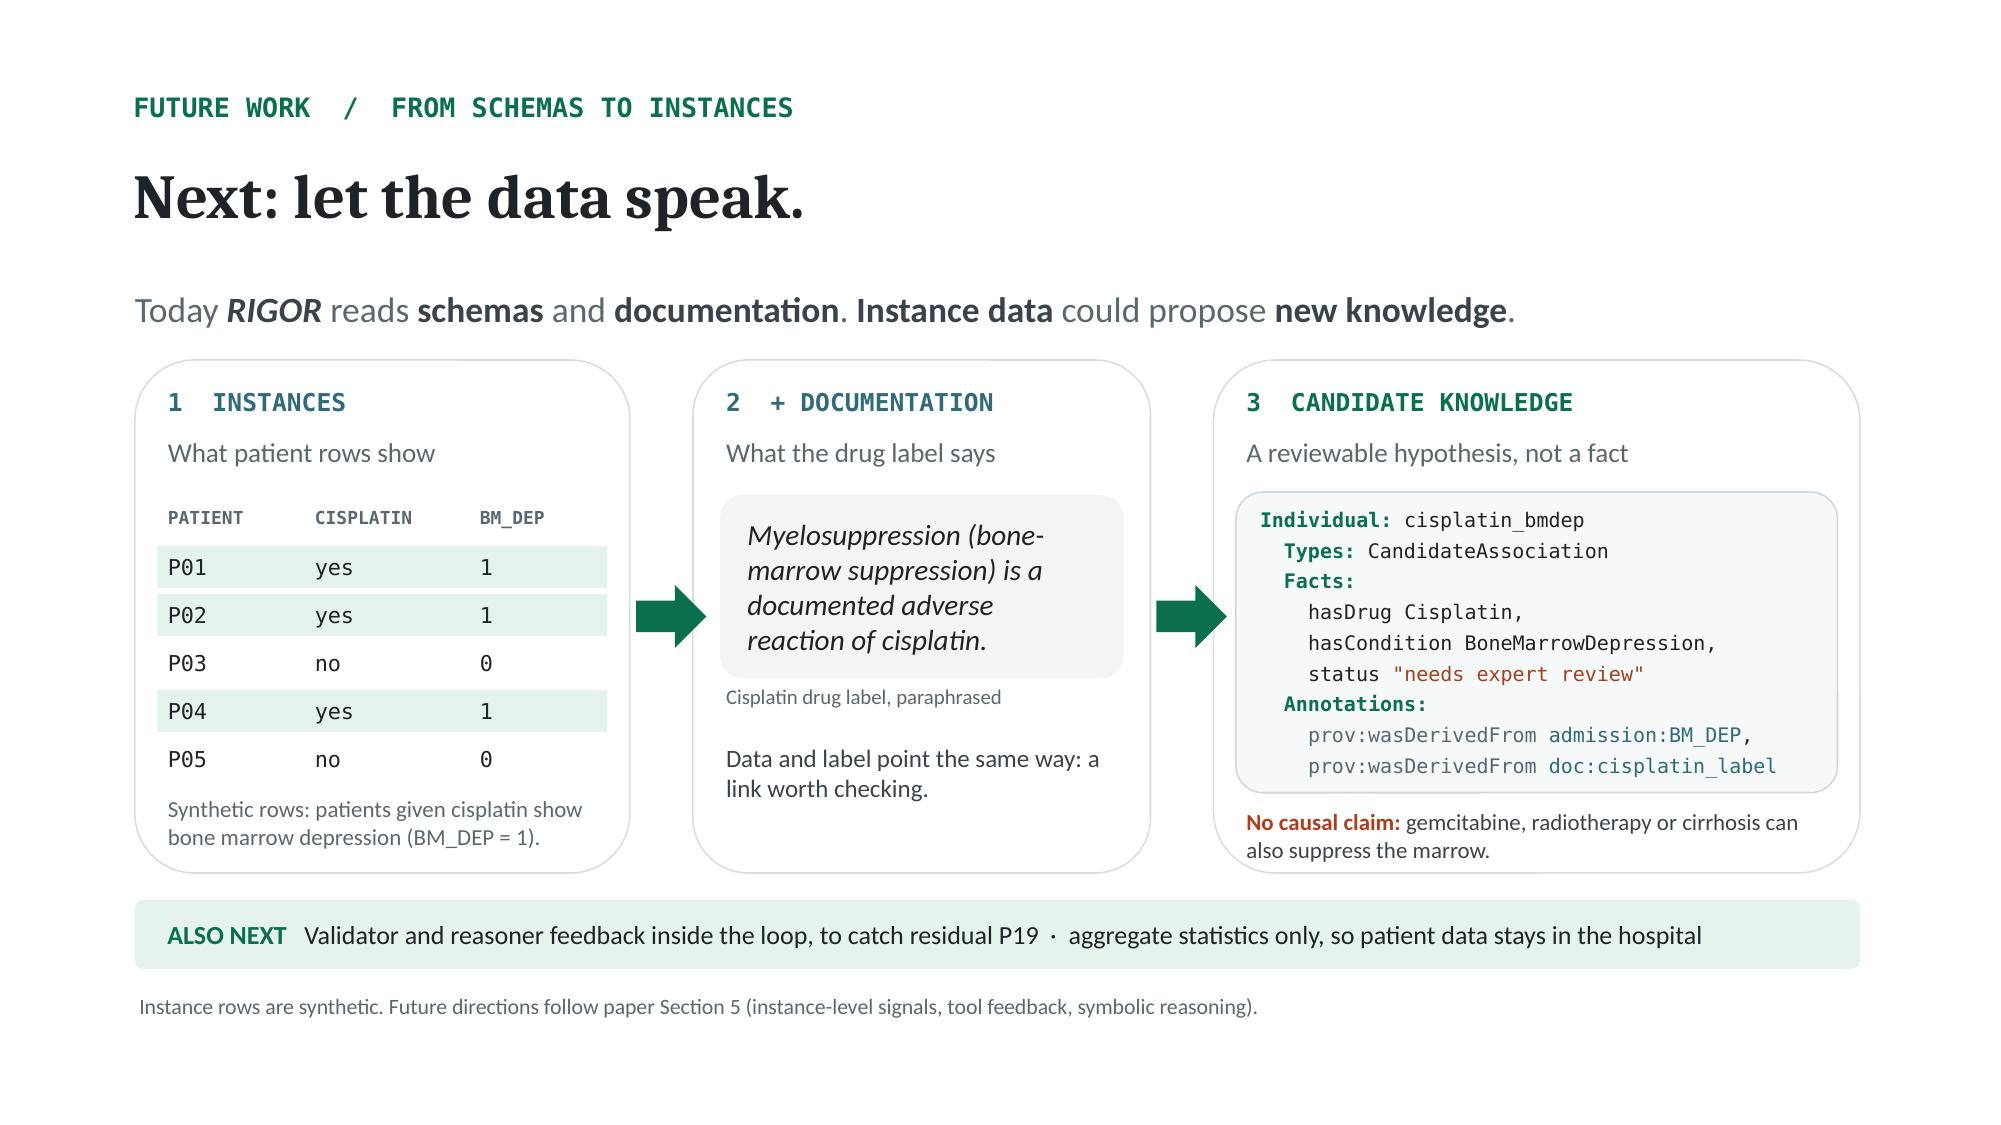
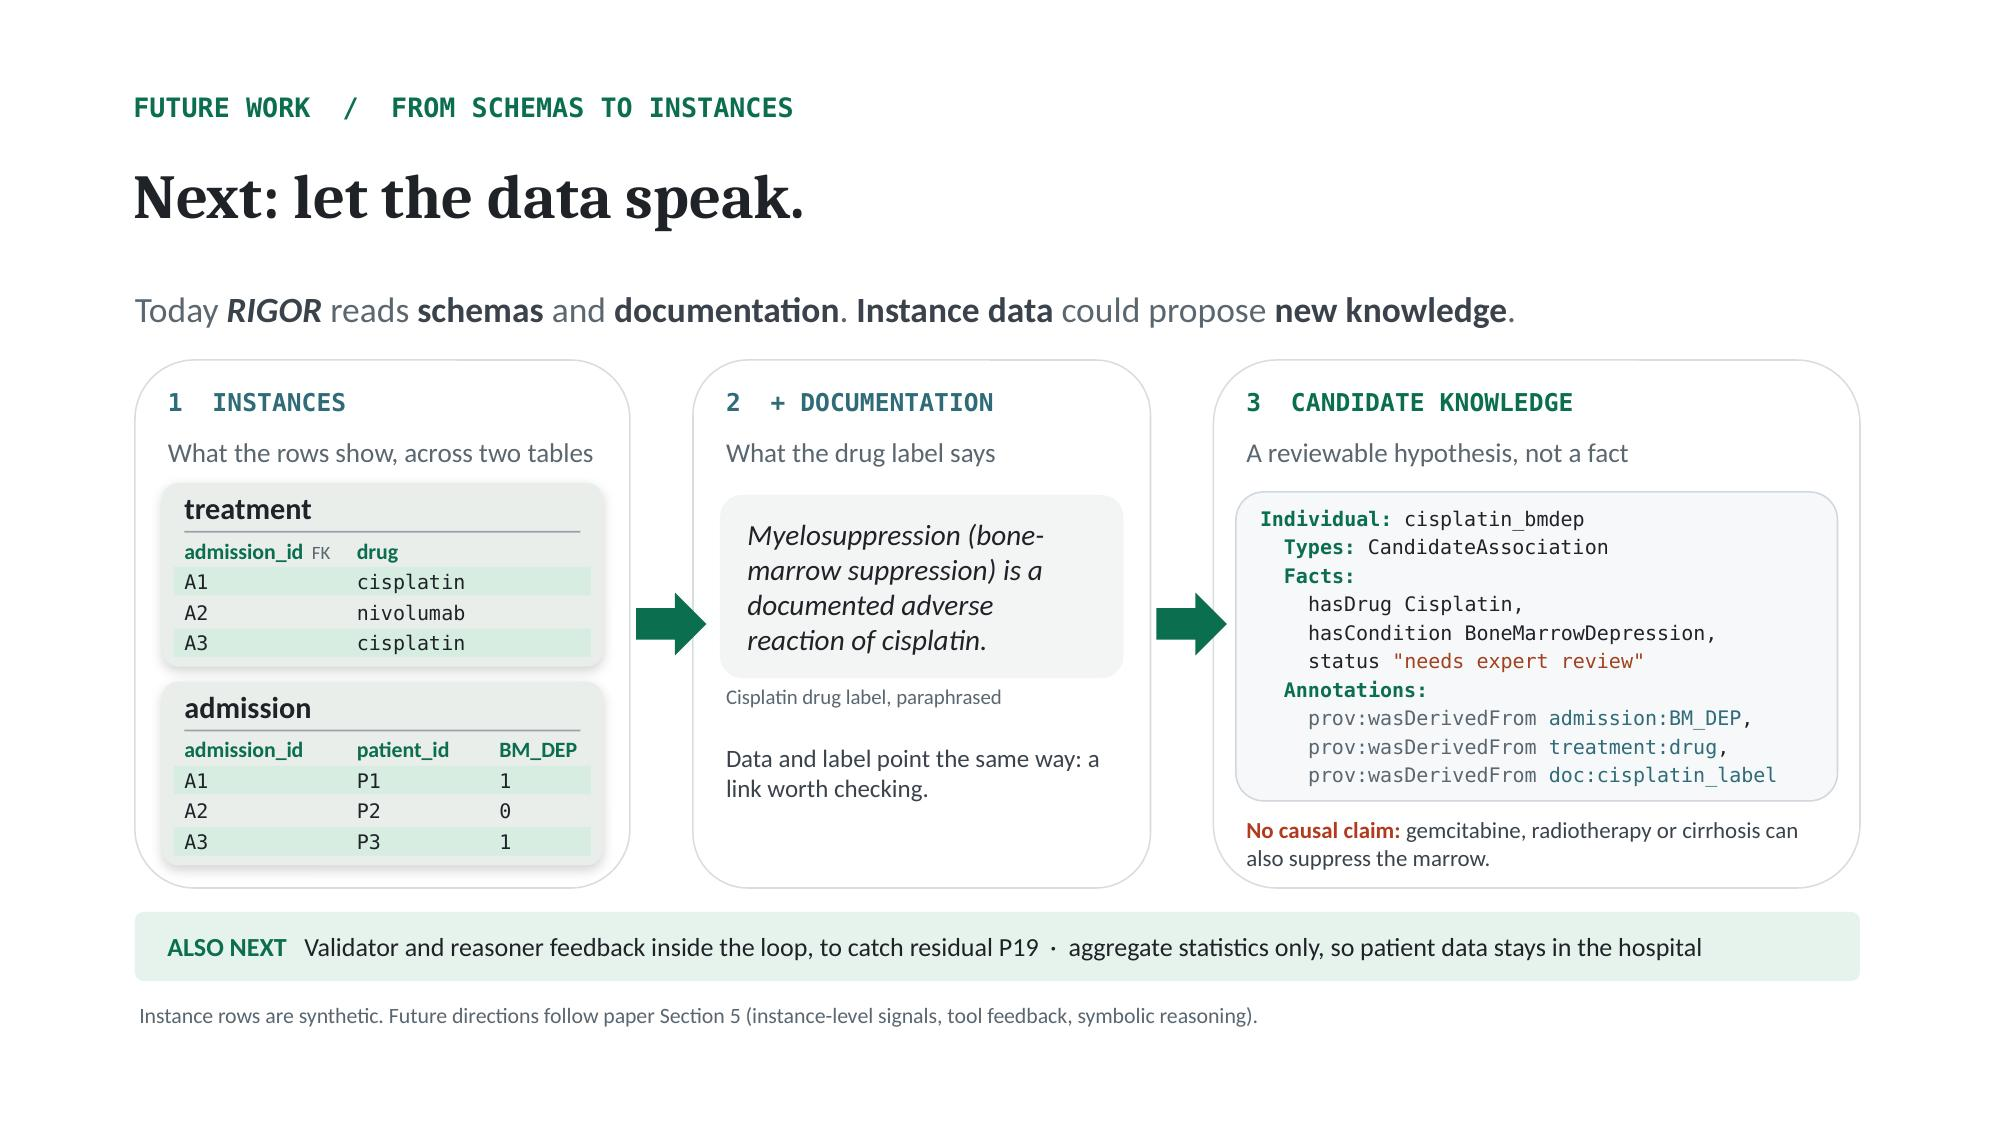
Future work: instance data across two tables (treatment, admission)
Card 1 shows treatment and admission in the slide-2 table style, joined on
admission_id, with P1-P3 / A1-A3 and no names. The candidate's provenance gains
treatment:drug (re-verified with the OWL API); speech updated.

Claude-Session: https://claude.ai/code/session_01KcycczqUBG98FnzsgJYAW8

Changed region(s): [[0.062, 0.3733, 0.9295, 0.9333], [0.5887, 0.5289, 0.6197, 0.5911], [0.2479, 0.4356, 0.2789, 0.4667]]

diff --git a/presentation/tools/future_v2.py b/presentation/tools/future_v2.py
@@ -23,9 +23,16 @@ from code_excerpts import FUTURE, NS, P, code_line, move, run_xml, simple_box  #
 from results import BODY, EMERALD, INK, MUTED, RED, Ids, add, shape  # noqa: E402
 from slide9_diff import geometry, shape_id, text  # noqa: E402
 
-CARD_TOP, CARD_BOTTOM = 2.40, 5.82
-ROWS = [("P01", "yes", "1"), ("P02", "yes", "1"), ("P03", "no", "0"), ("P04", "yes", "1"), ("P05", "no", "0")]
-BAND = "E6F2EC"
+CARD_TOP, CARD_BOTTOM = 2.40, 5.92
+# Synthetic rows over two tables joined by admission_id (no names; patients P1-P3, admissions A1-A3).
+TABLES = [
+    ("treatment", ("admission_id", "drug"), (1.15, 1.65),
+     [("A1", "cisplatin"), ("A2", "nivolumab"), ("A3", "cisplatin")], "admission_id"),
+    ("admission", ("admission_id", "patient_id", "BM_DEP"), (1.15, 0.95, 0.70),
+     [("A1", "P1", "1"), ("A2", "P2", "0"), ("A3", "P3", "1")], None),
+]
+JOINED = {"A1", "A3"}  # cisplatin admissions, highlighted in both tables
+BAND, TABLE_FILL = "D7EDE2", "E9EEEB"
 
 
 def r(t, color=INK, size=1200, bold=False, font="Calibri", italic=False):
@@ -71,8 +78,8 @@ def edit(tree):
         move(tree, shape_id(card), y=CARD_TOP, h=CARD_BOTTOM - CARD_TOP)
     for arrow in arrows:
         move(tree, shape_id(arrow), y=(CARD_TOP + CARD_BOTTOM) / 2 - geometry(arrow)[3] / 2)
-    move(tree, shape_id(strip), y=6.00)
-    move(tree, shape_id(footer), y=6.62)
+    move(tree, shape_id(strip), y=6.08)
+    move(tree, shape_id(footer), y=6.68)
 
     # Subtitle as the author edited it: key terms in bold, RIGOR bold italic.
     subtitle = by_text(shapes, "Today RIGOR")
@@ -82,22 +89,32 @@ def edit(tree):
         ("Instance data", True, False), (" could propose ", False, False), ("new knowledge", True, False),
         (".", False, False))))
 
-    # Card 1: instance table, one text box per cell.
+    # Card 1: the instance data spans two tables, drawn like admission / PatientData on slide 2.
     cx, _, cw, _ = geometry(cards[0])
-    cols = [cx + 0.22, cx + 1.20, cx + 2.30]
-    y = 3.32
-    for col, label in zip(cols, ("PATIENT", "CISPLATIN", "BM_DEP")):
-        add(tree, shape(ids(), "Table header", col, y, 1.0, 0.26, r(label, MUTED, 950, True, "Consolas"),
+    set_runs(by_text(shapes, "What patient rows show"), r("What the rows show, across two tables", MUTED, 1300))
+    root.remove(caption1)  # the footer already says the rows are synthetic
+    bx, bw = cx + 0.18, cw - 0.36
+    y = 3.22
+    for name, cols, widths, rows, fk in TABLES:
+        h = 0.32 + 0.22 + len(rows) * 0.205 + 0.07
+        add(tree, simple_box(ids(), f"Table {name}", bx, y, bw, h, fill=TABLE_FILL, geom="roundRect", shadow=True))
+        add(tree, shape(ids(), "Table name", bx + 0.15, y + 0.03, bw - 0.3, 0.27, r(name, INK, 1450, True),
                         anchor="ctr"))
-    for k, row in enumerate(ROWS):
-        ry = 3.64 + k * 0.32
-        if row[1] == "yes":
-            add(tree, shape(ids(), "Row band", cx + 0.15, ry, cw - 0.30, 0.28, fill=BAND))
-        for col, cell in zip(cols, row):
-            add(tree, shape(ids(), "Cell", col, ry, 1.0, 0.28, r(cell, INK, 1150, False, "Consolas"), anchor="ctr"))
-    move(tree, shape_id(caption1), y=5.30, h=0.42)
-    set_runs(caption1, r("Synthetic rows: patients given cisplatin show bone marrow depression (BM_DEP = 1).",
-                         MUTED, 1100))
+        add(tree, shape(ids(), "Rule", bx + 0.15, y + 0.32, bw - 0.30, 0.012, fill="9AA3A9"))
+        x = bx + 0.15
+        for col, w in zip(cols, widths):
+            label = r(col, EMERALD, 1050, True) + (r("  FK", MUTED, 900) if col == fk else "")
+            add(tree, shape(ids(), "Column", x, y + 0.35, w, 0.20, label, anchor="ctr"))
+            x += w
+        for k, row in enumerate(rows):
+            ry = y + 0.56 + k * 0.205
+            if row[0] in JOINED:
+                add(tree, shape(ids(), "Row band", bx + 0.08, ry, bw - 0.16, 0.19, fill=BAND))
+            x = bx + 0.15
+            for cell, w in zip(row, widths):
+                add(tree, shape(ids(), "Cell", x, ry, w, 0.19, r(cell, INK, 1050, False, "Consolas"), anchor="ctr"))
+                x += w
+        y += h + 0.10
 
     # Card 2: one bridging line where the timing note was.
     x2, _, w2, _ = geometry(cards[1])
@@ -108,7 +125,7 @@ def edit(tree):
     x3, _, w3, _ = geometry(cards[2])
     px, py, pw = x3 + 0.15, 3.28, w3 - 0.30
     lines = FUTURE.splitlines()
-    pitch = 0.205
+    pitch = 0.19
     ph = len(lines) * pitch + 0.16
     add(tree, simple_box(ids(), "Code panel", px, py, pw, ph, fill="F6F8FA", line="D0D7DE", geom="roundRect"))
     for k, line in enumerate(lines):

diff --git a/presentation/tools/code_excerpts.py b/presentation/tools/code_excerpts.py
@@ -140,6 +140,7 @@ FUTURE = """Individual: cisplatin_bmdep
     status "needs expert review"
   Annotations:
     prov:wasDerivedFrom admission:BM_DEP,
+    prov:wasDerivedFrom treatment:drug,
     prov:wasDerivedFrom doc:cisplatin_label"""
 
 FUTURE_SUPPORT = """Class: CandidateAssociation
@@ -149,6 +150,7 @@ DataProperty: status
 Individual: Cisplatin
 Individual: BoneMarrowDepression
 Individual: doc:cisplatin_label
+Individual: treatment:drug
 """
 
 # Slide 10: errors a capable LLM still makes, which the paper's checks target.
@@ -186,7 +188,9 @@ CHECKS = {
                                      + DOMAIN_WRONG, True, {"hasPatientData": 2}),
     "slide10_corrected_merged": (HEADER + "Class: Admission\nClass: LabResult\n" + CORE_LINK + "\n"
                                  + DOMAIN_RIGHT + "  Range: PatientData", True, {"hasPatientData": 1, "labResultOf": 1}),
-    "slide22_future_candidate": (TARGET_HEADER.replace("Ontology:", "Prefix: doc: <http://example.org/docs/>\nOntology:")
+    "slide22_future_candidate": (TARGET_HEADER.replace("Ontology:", "Prefix: doc: <http://example.org/docs/>\n"
+                                                       "Prefix: treatment: <http://example.org/provenance/treatment/>\n"
+                                                       "Ontology:")
                                  + FUTURE_SUPPORT + FUTURE, True),
 }
 
@@ -244,7 +248,7 @@ def tokens(line, in_string):
             out.append((tok, XSD, False))
         elif tok.startswith(("rdfs:", "prov:", "skos:")):
             out.append((tok, ANN, False))
-        elif tok.startswith(("src:", "doc:", "obo:", "admission:")):
+        elif tok.startswith(("src:", "doc:", "obo:", "admission:", "treatment:")):
             out.append((tok, IRI, False))
         else:
             out.append((tok, NAME, False))

diff --git a/presentation/tools/speech.py b/presentation/tools/speech.py
@@ -215,13 +215,13 @@ SLIDES = [
          cut="and they agreed significantly with each other"),
     dict(title="Future work",
          say="Where next? Today RIGOR reads schemas and documentation. The next step is to let the data speak. "
-             "Imagine several patients whose records show bone marrow depression after cisplatin cycles. The rows "
-             "alone show a pattern. The drug label adds that bone-marrow suppression is a known adverse reaction "
+             "Here the data sits in two tables: treatment says which admissions received cisplatin, admission "
+             "records bone marrow depression. Joined on the admission id, the rows show a pattern. The drug label adds that bone-marrow suppression is a known adverse reaction "
              "of cisplatin. Together, they let RIGOR propose new knowledge: a candidate association between "
-             "cisplatin and bone marrow depression, with provenance to both sources. Candidate, not cause. "
+             "cisplatin and bone marrow depression, with provenance to both tables and the label. Candidate, not cause. "
              "Gemcitabine, radiotherapy or cirrhosis could also explain it. So an expert reviews it. We also want "
              "validator and reasoner feedback inside the loop.",
-         cue="Rows, label, code, left to right. Say 'candidate' or 'may have contributed', never 'caused'.",
+         cue="Point at A1 and A3 in both tables, then the label, then the code. Say 'candidate', never 'caused'.",
          takeaway="Instances plus documentation can propose knowledge; experts confirm it.",
          source="Paper Section 5. Rows are synthetic. OWL verified "
                 "(presentation/excerpts/slide22_future_candidate.omn): a typed individual with provenance, no "

diff --git a/presentation/SPEECH.md b/presentation/SPEECH.md
@@ -1,6 +1,6 @@
 # RIGOR @ ISWC 2026: speech
 
-Spoken script for the 23 main slides: **1330 words**, ending at **12:46** at 105 words per minute (the original deck's pace, clicks included) plus 2 s per marked [pause]. The slot is 15 minutes with Q&A separate, so this leaves a margin for a slower delivery.
+Spoken script for the 23 main slides: **1343 words**, ending at **12:53** at 105 words per minute (the original deck's pace, clicks included) plus 2 s per marked [pause]. The slot is 15 minutes with Q&A separate, so this leaves a margin for a slower delivery.
 
 The same text is in each slide's speaker notes. This file is generated by `presentation/tools/speech.py`; edit the script there, not here.
 
@@ -188,11 +188,11 @@ Finally: do evaluators prefer RIGOR? Both evaluations were blind: four anonymize
   
 *If late, drop:* "and they agreed significantly with each other"
 
-## 22. Future work  ·  11:19–12:13  ·  96 words
+## 22. Future work  ·  11:19–12:21  ·  109 words
 
-Where next? Today RIGOR reads schemas and documentation. The next step is to let the data speak. Imagine several patients whose records show bone marrow depression after cisplatin cycles. The rows alone show a pattern. The drug label adds that bone-marrow suppression is a known adverse reaction of cisplatin. Together, they let RIGOR propose new knowledge: a candidate association between cisplatin and bone marrow depression, with provenance to both sources. Candidate, not cause. Gemcitabine, radiotherapy or cirrhosis could also explain it. So an expert reviews it. We also want validator and reasoner feedback inside the loop.
+Where next? Today RIGOR reads schemas and documentation. The next step is to let the data speak. Here the data sits in two tables: treatment says which admissions received cisplatin, admission records bone marrow depression. Joined on the admission id, the rows show a pattern. The drug label adds that bone-marrow suppression is a known adverse reaction of cisplatin. Together, they let RIGOR propose new knowledge: a candidate association between cisplatin and bone marrow depression, with provenance to both tables and the label. Candidate, not cause. Gemcitabine, radiotherapy or cirrhosis could also explain it. So an expert reviews it. We also want validator and reasoner feedback inside the loop.
 
-*Pointer:* Rows, label, code, left to right. Say 'candidate' or 'may have contributed', never 'caused'.  
+*Pointer:* Point at A1 and A3 in both tables, then the label, then the code. Say 'candidate', never 'caused'.  
 *Takeaway:* Instances plus documentation can propose knowledge; experts confirm it.  
 *Source:* Paper Section 5. Rows are synthetic. OWL verified (presentation/excerpts/slide22_future_candidate.omn): a typed individual with provenance, no causal axiom.
   
@@ -200,7 +200,7 @@ Where next? Today RIGOR reads schemas and documentation. The next step is to let
 
 > IF ASKED WHY NOT AN OWL CAUSAL AXIOM: OWL reasoning is deductive and open-world; it cannot derive causation from statistics, and 'Cisplatin SubClassOf causes some BoneMarrowDepression' would wrongly claim it for every case.
 
-## 23. Thank you  ·  12:13–12:46  ·  57 words
+## 23. Thank you  ·  12:21–12:53  ·  57 words
 
 To conclude. RIGOR anchors LLM generation in the database itself, grounds it in retrieved knowledge, and checks every step before the ontology grows. The result: meaning without losing structure, the link to the data intact, and ontologies that experts prefer. The paper and code are behind these QR codes. Thank you. I'm happy to take your questions.
 

diff --git a/presentation/REHEARSAL_CARD.md b/presentation/REHEARSAL_CARD.md
@@ -1,6 +1,6 @@
 # Rehearsal card
 
-Target: finish by **13:30**. Planned end: **12:46** (1330 words).
+Target: finish by **13:30**. Planned end: **12:53** (1343 words).
 
 | Slide | Starts at | Ends at | Words |
 |---|---|---|---|
@@ -25,8 +25,8 @@ Target: finish by **13:30**. Planned end: **12:46** (1330 words).
 | 19. Result 1: meaning and modeling errors | 8:45 | 9:38 | 85 |
 | 20. Result 2: BURR | 9:38 | 10:42 | 112 |
 | 21. Result 3: LLM judge and experts | 10:42 | 11:19 | 61 |
-| 22. Future work | 11:19 | 12:13 | 96 |
-| 23. Thank you | 12:13 | 12:46 | 57 |
+| 22. Future work | 11:19 | 12:21 | 109 |
+| 23. Thank you | 12:21 | 12:53 | 57 |
 
 ## Checkpoints
 
@@ -36,7 +36,7 @@ Glance at the clock when these slides come up. More than 30 s behind: apply the 
 - **Slide 12** should come up at **7:19** (the architecture recap starts).
 - **Slide 19** should come up at **8:45** (the results start).
 - **Slide 22** should come up at **11:19** (future work starts).
-- **Slide 23** should come up at **12:13** (the close starts).
+- **Slide 23** should come up at **12:21** (the close starts).
 
 ## Cuts if running late
 
